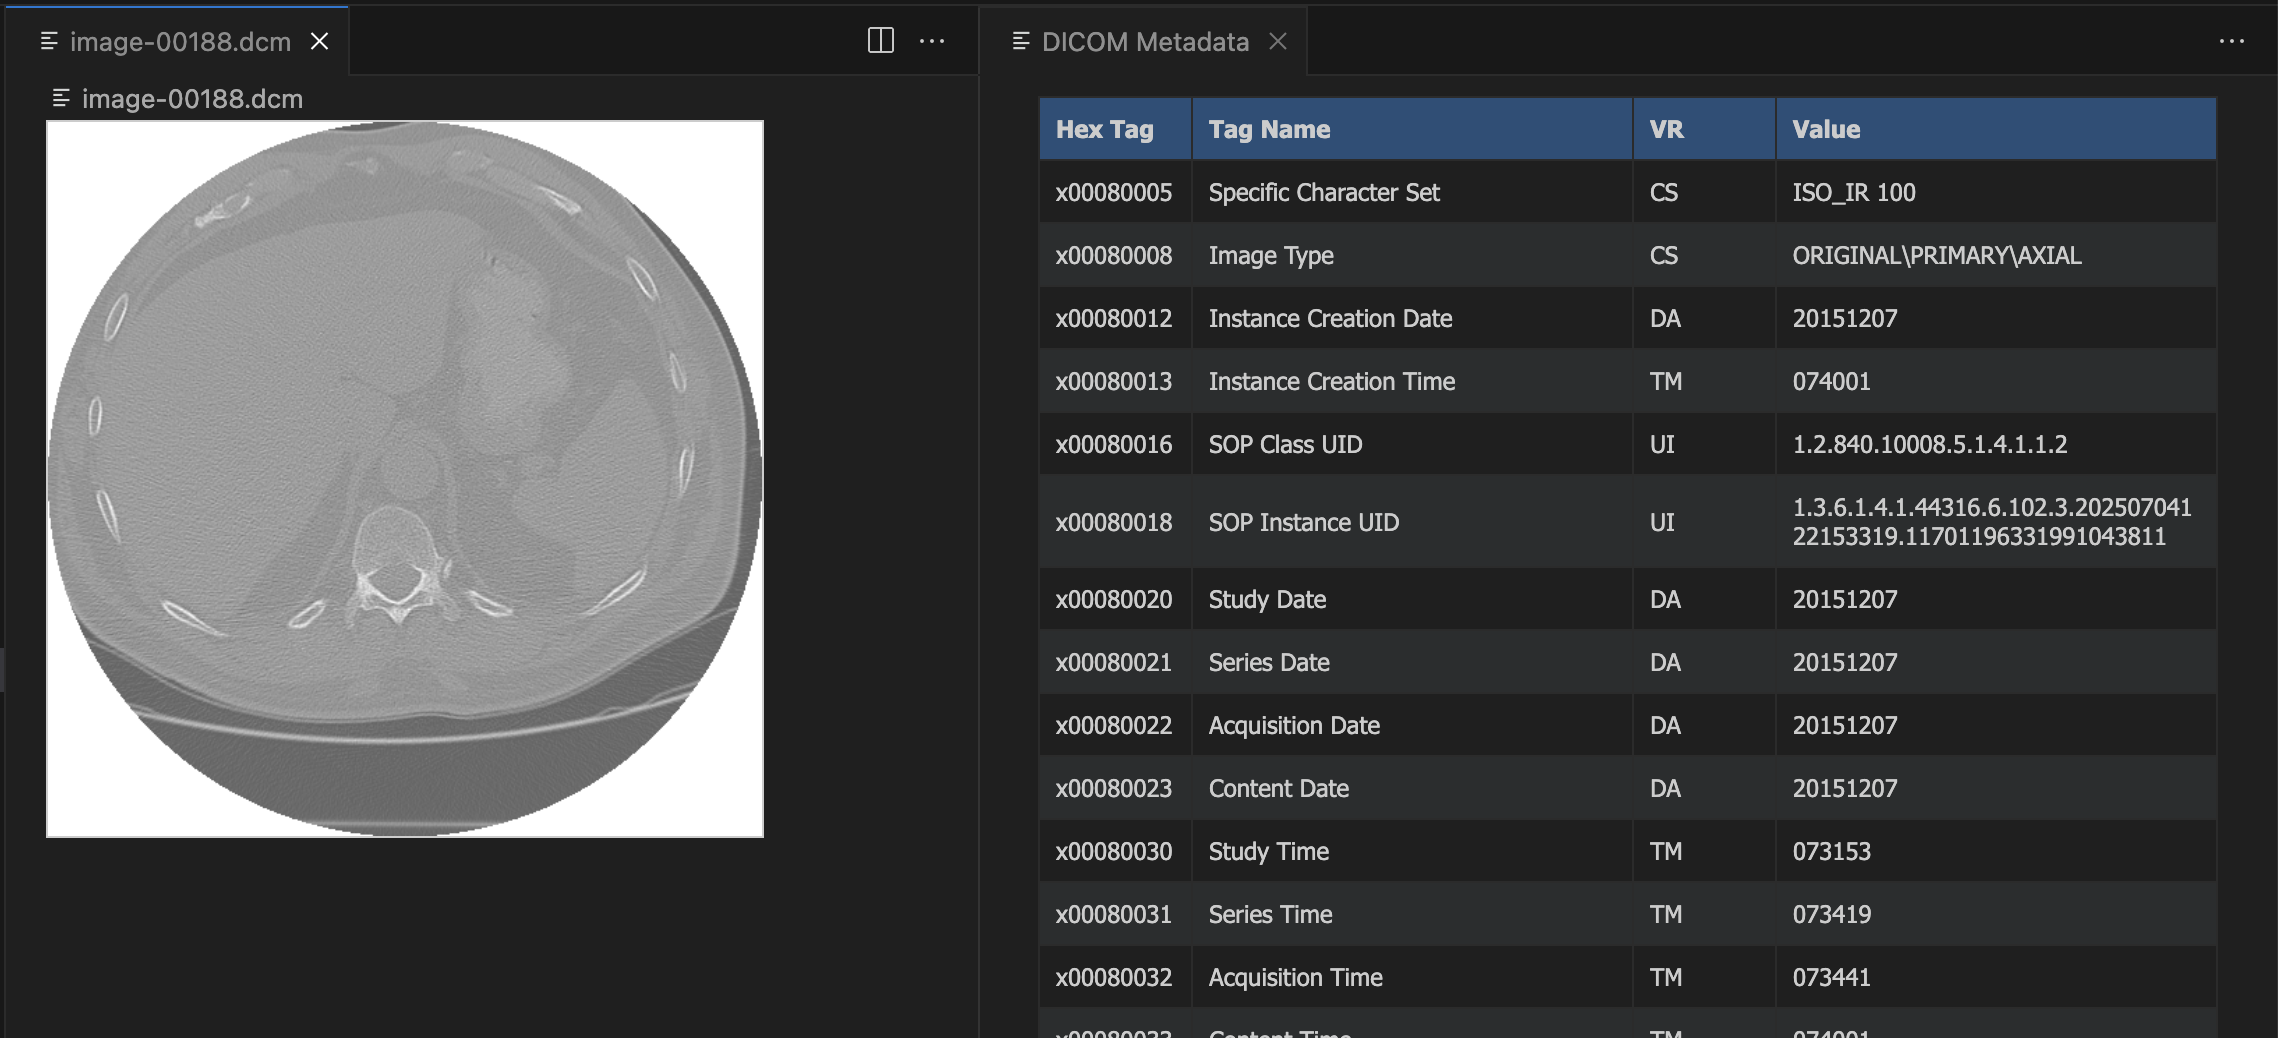
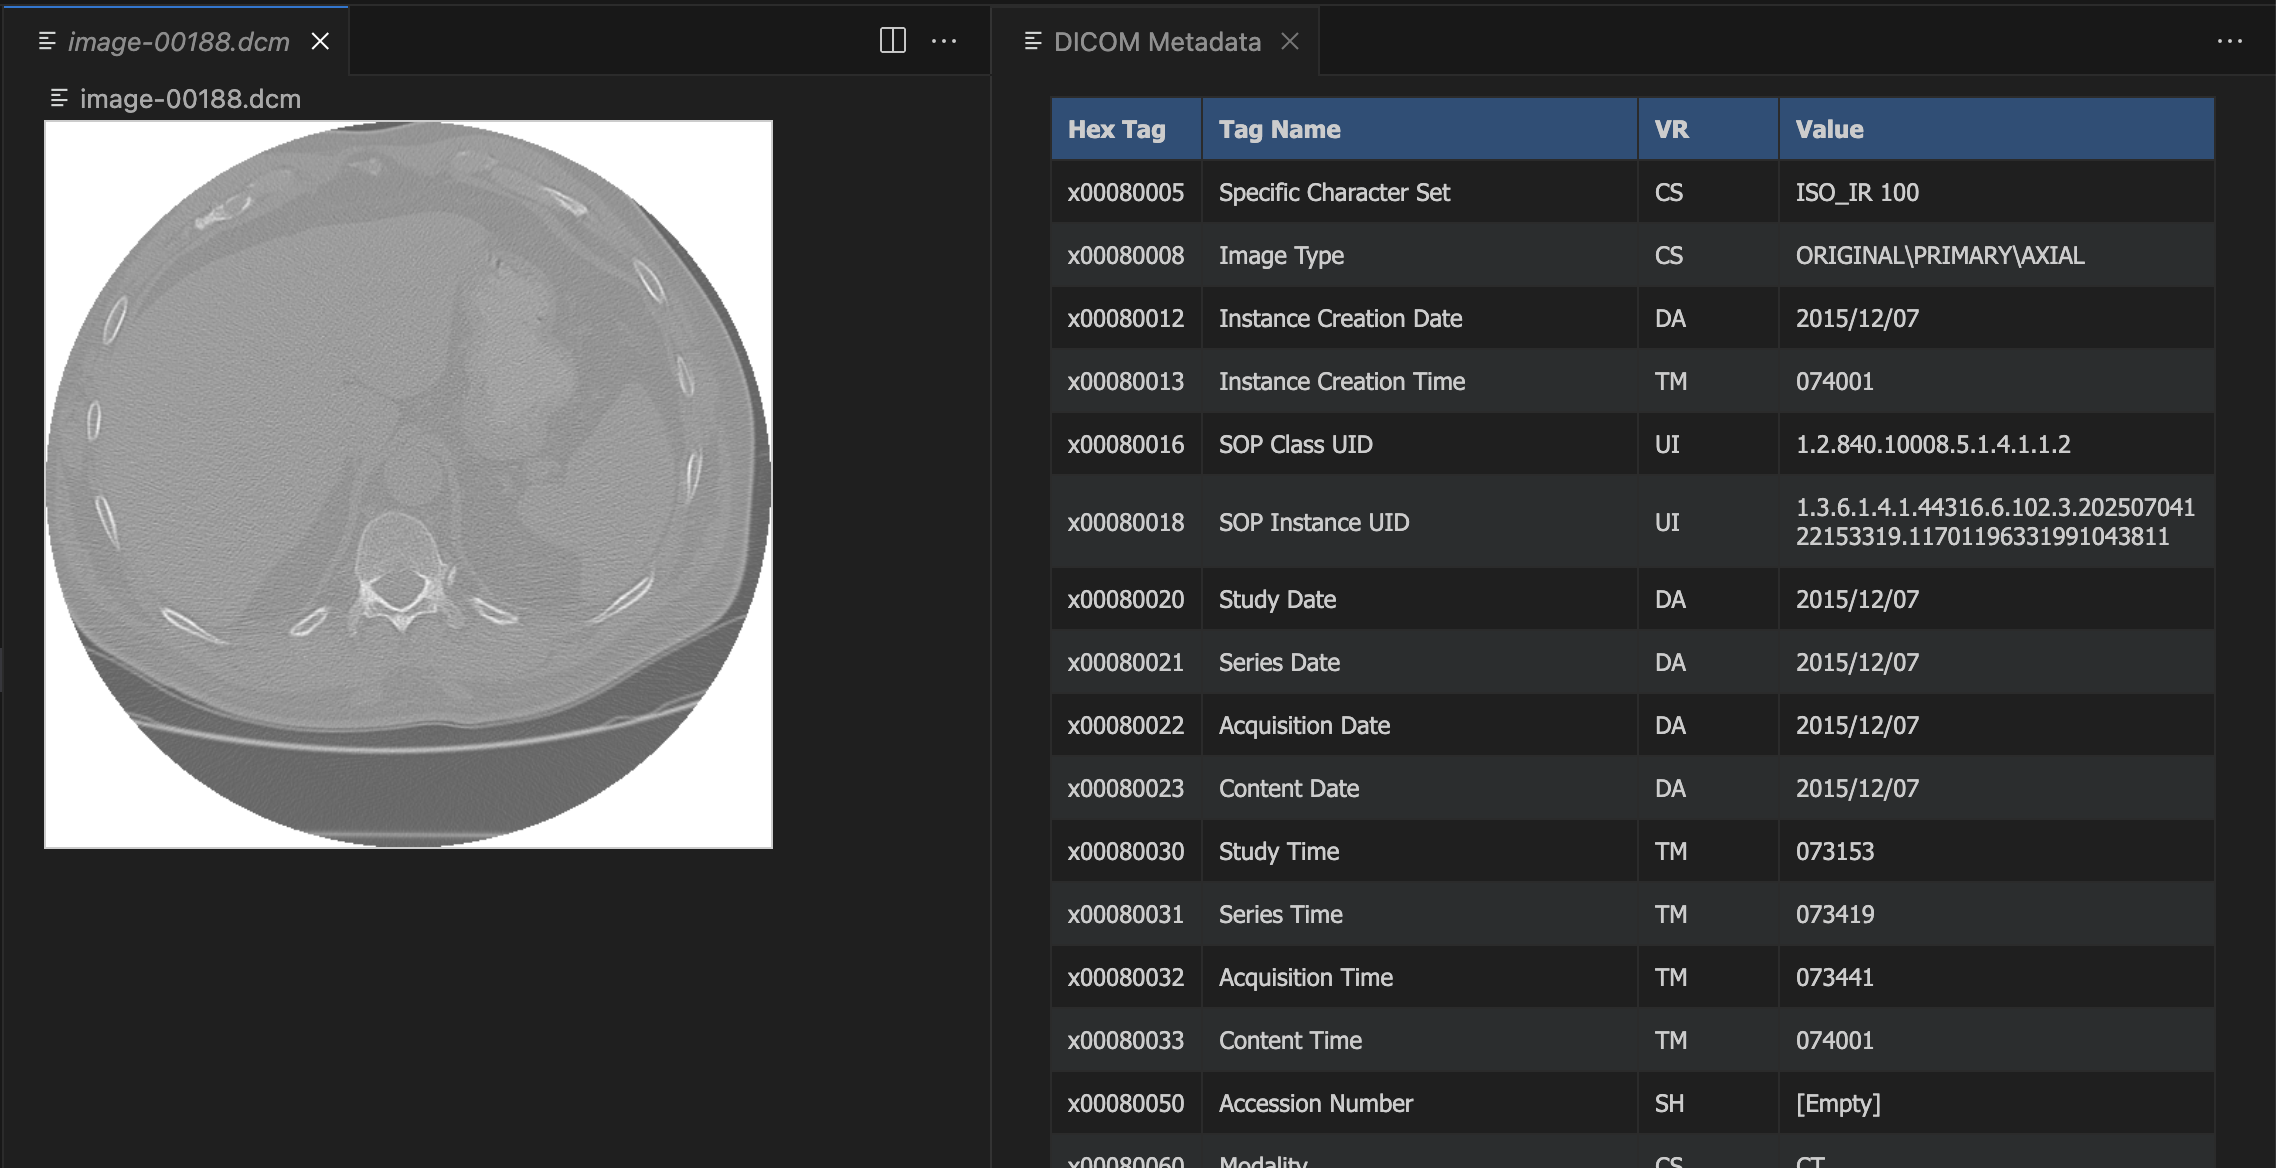
one more readme fix and we'll solve github bro. also formatted dates nicely in metadata

diff --git a/src/getImage.ts b/src/getImage.ts
@@ -141,6 +141,17 @@ export function getMetadata(filepath: string): Array<any> {
                     value = '[Sequence]';
                 } else if (finalVr === 'OB' || finalVr === 'OW' || finalVr === 'OF') {
                     value = '[Binary Data]';
+                } else if (finalVr === 'DA') {
+                    // if the VR is a date, make it more readable format (YYYY/MM/DD)
+                    const dateStr = dataSet.string(tag);
+                    if (dateStr && dateStr.length === 8) {
+                        // DICOM DA format is YYYYMMDD
+                        value = `${dateStr.slice(0, 4)}/${dateStr.slice(4, 6)}/${dateStr.slice(6, 8)}`;
+                    } else if (dateStr) {
+                        value = dateStr;
+                    } else {
+                        value = '[Empty]';
+                    }
                 } else {
                     // get string representation for text/numeric VRs
                     try {

diff --git a/src/extension.ts b/src/extension.ts
@@ -98,7 +98,7 @@ class DICOMEditorProvider implements vscode.CustomReadonlyEditorProvider<vscode.
 				<title>DICOM Image</title>
 			</head>
 			<body>
-				<h3>compressed image not supported</h3>
+				<h3>Compressed DICOM images currently not supported</h3>
 			</body>
 			</html>`;
 	}
@@ -126,7 +126,7 @@ class DICOMEditorProvider implements vscode.CustomReadonlyEditorProvider<vscode.
 				<title>DICOM Image</title>
 			</head>
 			<body>
-				<h3>failed</h3>
+				<h3>uh oh, something went wrong</h3>
 			</body>
 			</html>`;
 		}
@@ -142,7 +142,7 @@ class DICOMEditorProvider implements vscode.CustomReadonlyEditorProvider<vscode.
 				<title>DICOM Metadata</title>
 			</head>
 			<body>
-				<h3>dicom contains no metadata</h3>
+				<h3>DICOM contains no metadata</h3>
 			</body>
 			</html>`;
 		}

diff --git a/README.md b/README.md
@@ -1,17 +1,17 @@
 # DICOM Viewer
 
-Visualize DICOM images and analyze corresponding metadata all in one place, without leaving VSCode.
+Open DICOM (.dcm) files directly in VS Code. View both the image and associated metadata side-by-side.
 
 ## Features
 
-- View DICOM images directly side-by-side with a table containing tags, value representations (VRs), and the data itself
-- Activated as soon as you open a DICOM file—no extra steps
-- Metadata panel automatically closes when focus is shifted away from the original DICOM image, reducing workspace clutter
+- Displays DICOM image
+- Presents file metadata including tags, value representations (VRs), and attribute values
+- Activates as soon as you click on a .dcm file
 
 ### Example
 ![example](https://raw.githubusercontent.com/alaramartin/dicom-viewer/refs/heads/main/example.png)
 
-Note: this extension currently cannot display the official name or VR of private tags and does not support displaying compressed DICOMs.
+Note: this extension currently does not support displaying compressed images or the official name/VR of private tags.
 
 ## Installation
 
@@ -20,3 +20,7 @@ Click the "Install" button. No additional dependencies to worry about :)
 ## Contributing
 
 Feel free to open issues and pull requests. I'll be regularly checking activity on the [repository](https://github.com/alaramartin/dicom-viewer)!
+
+## License
+
+This extension is released under the MIT License. See the LICENSE file for more details.

diff --git a/CHANGELOG.md b/CHANGELOG.md
@@ -2,8 +2,10 @@
 
 All notable changes to the "dicom-viewer" extension will be documented in this file.
 
-Check [Keep a Changelog](http://keepachangelog.com/) for recommendations on how to structure this file.
-
-## [Unreleased]
+## [0.0.1]
 
 - Initial release
+
+# [0.1.1]
+
+- Formatted dates (VR tag: DA)
